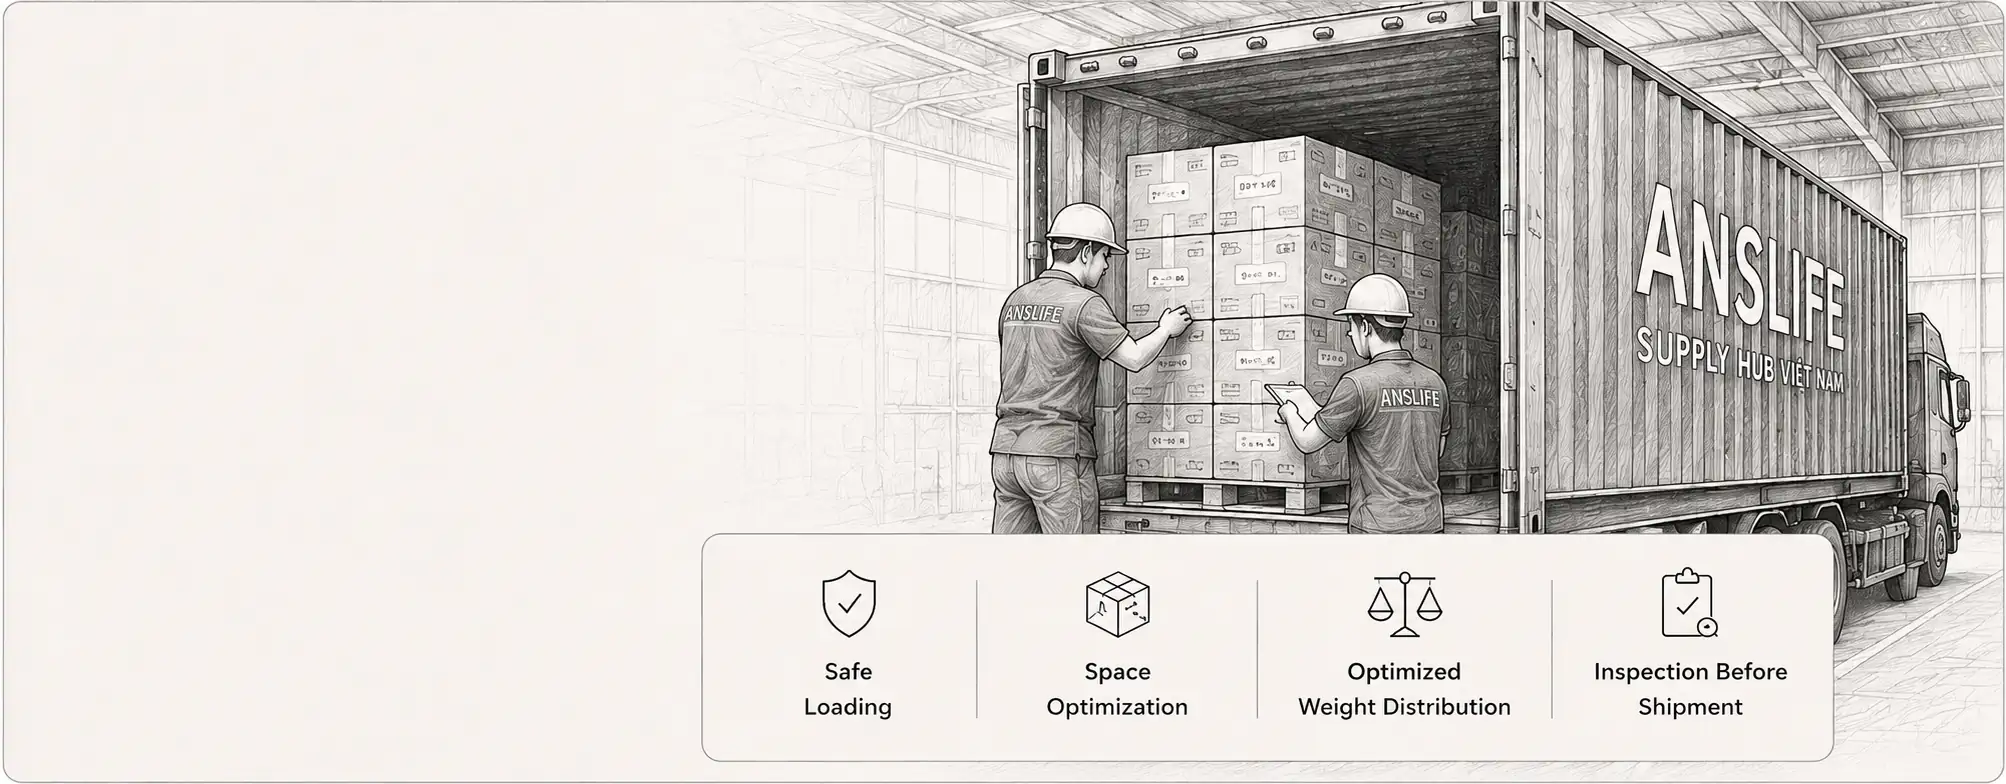
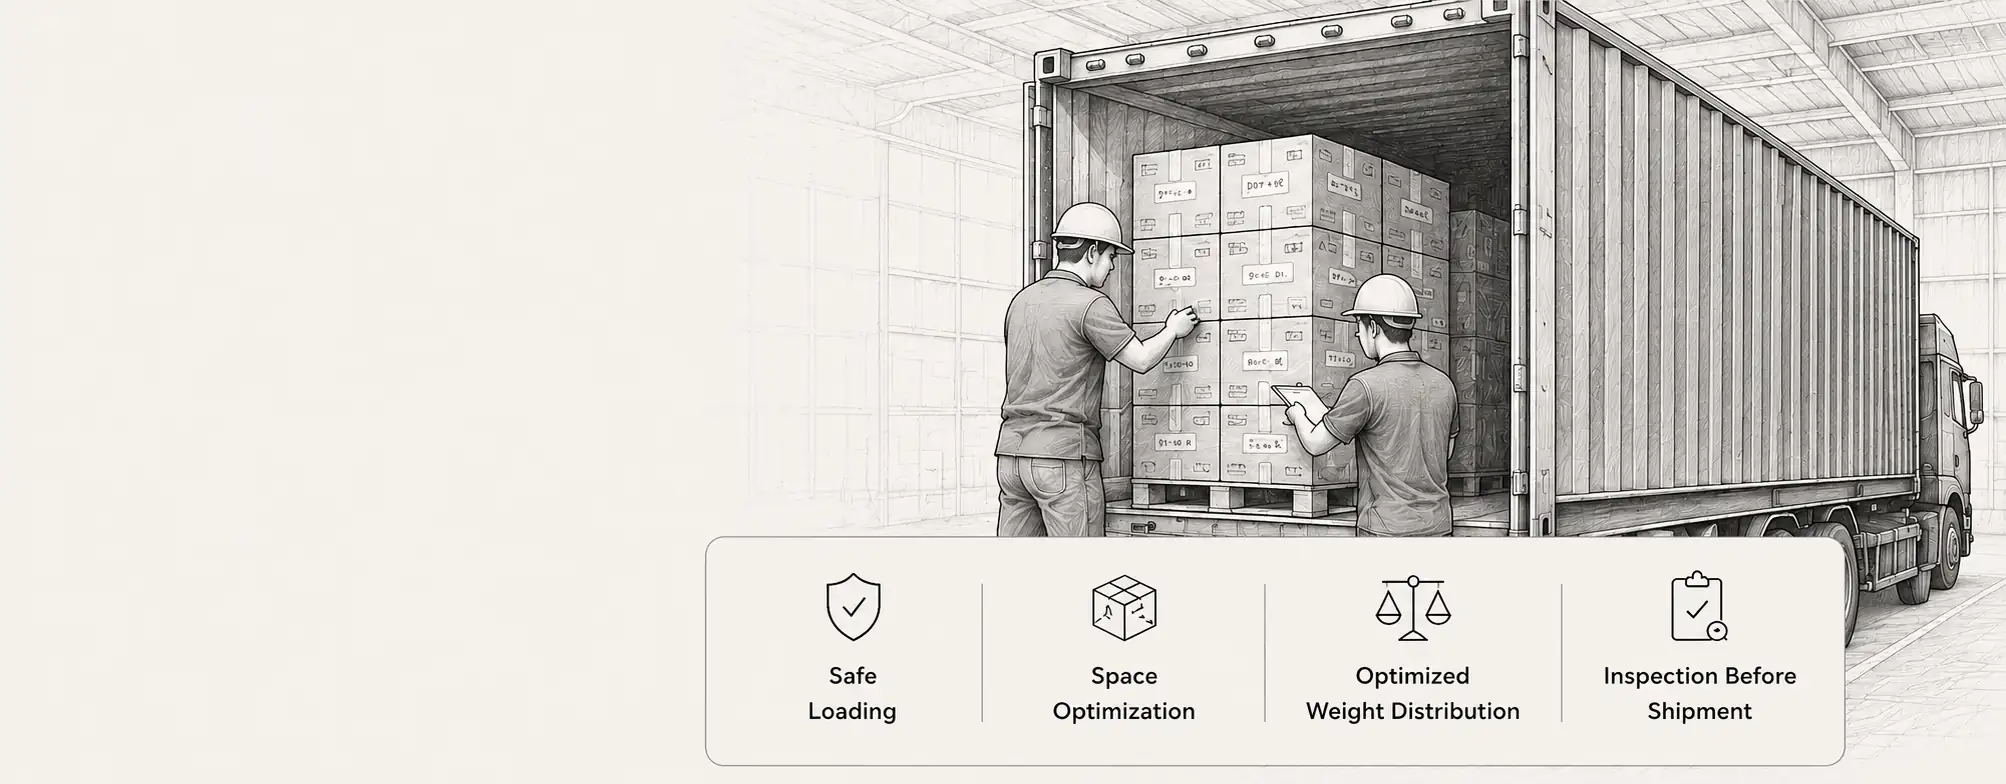
/manufacturing/container-loading

diff --git a/docs/01-project-handbook.md b/docs/01-project-handbook.md
@@ -1,0 +1,283 @@
+# 01. Project Handbook - ANSLIFE Website
+
+Cập nhật: 13/07/2026
+
+## 1. Tổng quan dự án
+
+ANSLIFE Website là hệ thống website giới thiệu năng lực sản xuất, cung ứng và xuất khẩu nội thất tại Việt Nam. Website phục vụ ba nhóm nhu cầu chính:
+
+1. Giới thiệu năng lực với buyer, đối tác và khách hàng quốc tế.
+2. Tổ chức nội dung theo các nhóm: về ANSLIFE, sản phẩm & giải pháp, nguyên liệu, sản xuất, Supply Hub Việt Nam, chất lượng & tiêu chuẩn, tài nguyên, liên hệ và tuyển dụng.
+3. Cung cấp các API nội bộ cho form liên hệ, tuyển dụng, admin và dữ liệu vận hành.
+
+Tên miền định hướng sử dụng: `anslife.com`.
+
+## 2. Phạm vi hiện tại
+
+### Website public
+
+Các nhóm trang chính:
+
+1. Trang chủ.
+2. Về ANSLIFE: triết lý, tổng quan công ty, lịch sử phát triển, phụng sự xã hội, thông tin công ty.
+3. Sản phẩm & giải pháp: nội thất hoàn thiện, cấu kiện nội thất, hoàn thiện bề mặt, giải pháp vận hành & cung ứng.
+4. Nguyên liệu: gỗ tự nhiên, gỗ kỹ thuật, vật liệu tự nhiên, vật liệu bọc nệm, vật liệu đóng gói.
+5. Sản xuất: tổng quan nhà máy, máy móc & thiết bị, năng lực hoàn thiện, dây chuyền lắp ráp, khu vực đóng gói, xếp container, quy trình sản xuất.
+6. Supply Hub Việt Nam: lưu kho, gom hàng, điều phối xuất hàng, chứng từ xuất khẩu, phòng mẫu chuẩn đối tác.
+7. Chất lượng & tiêu chuẩn: tổng quan QC, quy trình QC, kiểm tra vật liệu, kiểm tra trong sản xuất, kiểm tra cuối, mẫu duyệt, độ ẩm, đóng gói, báo cáo, tiêu chuẩn riêng của buyer.
+8. Tài nguyên: ghi chú sản xuất, kiến thức xuất khẩu, case study, cập nhật công ty, FAQ.
+9. Liên hệ: form gửi yêu cầu làm việc.
+10. Tuyển dụng: bản đồ cơ hội nghề nghiệp, danh sách vị trí, popup ứng tuyển.
+
+### Admin / vận hành nội bộ
+
+Các module admin hiện có:
+
+1. Đăng nhập, dashboard, người dùng.
+2. Khách hàng, nhà máy, đơn hàng, logistics, work logs.
+3. Data upload, data review, share link.
+4. QC portal, CAPA portal, factory surveys, supplier portal, buyer portal.
+5. Attendance, audit logs.
+6. Tuyển dụng: quản lý vị trí tuyển dụng và hồ sơ ứng tuyển.
+
+Ghi chú: website hiện không cần đăng sản phẩm bằng database như một site thương mại điện tử. Các bảng/catalog sản phẩm cũ không phải phạm vi bắt buộc của ANSLIFE Website.
+
+## 3. Stack kỹ thuật
+
+1. Frontend: Next.js, React, TypeScript.
+2. Routing UI: React Router bridge để giữ cấu trúc UI hiện tại trong Next.js.
+3. Styling: CSS tập trung tại `src/index.css`.
+4. Backend API: Next.js App Router API routes trong `src/app/api`.
+5. Database: MySQL, Prisma schema.
+6. Email: Nodemailer qua SMTP.
+7. File/object storage: Cloudflare R2 hoặc S3-compatible storage.
+
+## 4. Cấu trúc thư mục quan trọng
+
+1. `src/App.tsx`: khai báo route chính của website và admin.
+2. `src/config/site.ts`: menu, cấu hình section, route tĩnh.
+3. `src/views/`: các màn hình public/admin.
+4. `src/components/`: component dùng chung.
+5. `src/app/api/public/`: API public cho website.
+6. `src/app/api/internal/`: API nội bộ/admin.
+7. `src/lib/repositories/`: tầng đọc/ghi database.
+8. `src/lib/email/`: xử lý email thông báo.
+9. `prisma/schema.prisma`: schema database.
+10. `prisma/sql/anslife-schema.sql`: SQL schema tham chiếu.
+11. `public/`: asset tĩnh.
+12. `docs/`: tài liệu dự án và bàn giao.
+
+## 5. Cách chạy local
+
+Cài package:
+
+```bash
+npm install
+```
+
+Chạy local bằng HTTPS:
+
+```bash
+npm run dev
+```
+
+Chạy local bằng HTTP:
+
+```bash
+npm run dev:http
+```
+
+URL thường dùng:
+
+1. Website: `http://localhost:3000/vn`
+2. Admin login: `http://localhost:3000/vn/admin/login`
+3. Admin tuyển dụng: `http://localhost:3000/vn/admin/recruitment`
+4. Form liên hệ: `http://localhost:3000/vn/contact/request-quotation`
+5. API health check: `http://localhost:3000/api/health`
+
+## 6. Script quan trọng
+
+```bash
+npm run dev
+npm run dev:http
+npm run build
+npm run start
+npm run lint:src
+npm run typecheck
+npm run preflight:prod
+npm run prisma:generate
+npm run prisma:push
+npm run prisma:deploy
+npm run prisma:studio
+npm run db:seed
+```
+
+## 7. Biến môi trường
+
+Không commit secret thật lên repository. Các giá trị thật chỉ đặt trong `.env` local hoặc biến môi trường trên VPS.
+
+Nhóm website:
+
+1. `NODE_ENV`
+2. `PORT`
+3. `NEXT_PUBLIC_SITE_URL`
+4. `NEXT_PUBLIC_INTERNAL_API_BASE`
+
+Nhóm SMTP/contact:
+
+1. `SMTP_HOST`
+2. `SMTP_PORT`
+3. `SMTP_SECURE`
+4. `SMTP_USER`
+5. `SMTP_PASS`
+6. `CONTACT_NOTIFICATION_TO`
+7. `CONTACT_NOTIFICATION_FROM`
+
+Nhóm database/admin:
+
+1. `DATABASE_URL`
+2. `DB_POOL_LIMIT`
+3. `ADMIN_USERNAME`
+4. `ADMIN_PASSWORD`
+5. `ADMIN_FULL_NAME`
+6. `ADMIN_ROTATE_PASSWORD`
+7. `ADMIN_SYNC_NAME`
+8. `APP_SESSION_COOKIE_SECURE`
+
+Nhóm bảo mật/rate limit:
+
+1. `CORS_ALLOW_ORIGINS`
+2. `APP_ENABLE_CSP`
+3. `APP_RATE_LIMIT_LOGIN_MAX`
+4. `APP_RATE_LIMIT_LOGIN_WINDOW_SECONDS`
+5. `APP_RATE_LIMIT_AUDIT_MAX`
+6. `APP_RATE_LIMIT_AUDIT_WINDOW_SECONDS`
+7. `APP_RATE_LIMIT_DOWNLOAD_MAX`
+8. `APP_RATE_LIMIT_DOWNLOAD_WINDOW_SECONDS`
+9. `APP_RATE_LIMIT_EXPORT_MAX`
+10. `APP_RATE_LIMIT_EXPORT_WINDOW_SECONDS`
+11. `APP_RATE_LIMIT_SHARE_CREATE_MAX`
+12. `APP_RATE_LIMIT_SHARE_CREATE_WINDOW_SECONDS`
+13. `APP_RATE_LIMIT_SHARE_REVOKE_MAX`
+14. `APP_RATE_LIMIT_SHARE_REVOKE_WINDOW_SECONDS`
+15. `APP_RATE_LIMIT_PUBLIC_SHARE_MAX`
+16. `APP_RATE_LIMIT_PUBLIC_SHARE_WINDOW_SECONDS`
+
+Nhóm R2/storage:
+
+1. `R2_ACCOUNT_ID`
+2. `R2_ENDPOINT`
+3. `R2_ACCESS_KEY_ID`
+4. `R2_SECRET_ACCESS_KEY`
+5. `R2_BUCKET`
+6. `R2_PUBLIC_BASE_URL`
+7. `R2_REGION`
+8. `R2_MAX_FILE_SIZE_BYTES`
+
+## 8. Database
+
+Schema chính nằm ở `prisma/schema.prisma`. Các bảng quan trọng:
+
+1. `content_items`, `taxonomies`, `content_item_taxonomies`: nội dung động/fallback cho CMS.
+2. `contact_leads`: lưu yêu cầu gửi từ form liên hệ.
+3. `app_users`, `app_user_sessions`: tài khoản admin và phiên đăng nhập.
+4. `customers`, `factories`, `trade_orders`: dữ liệu vận hành.
+5. `order_logistics`, `order_work_logs`, `trade_order_assignments`: theo dõi đơn hàng và vận hành.
+6. `order_data_items`, `data_share_links`: tài liệu, upload, chia sẻ dữ liệu.
+7. `qc_items`, `capa_items`, `factory_surveys`, `supplier_material_items`: QC, CAPA, khảo sát nhà máy, dữ liệu nhà cung ứng.
+8. `attendance_logs`, `audit_logs`: chấm công và nhật ký hệ thống.
+9. `recruitment_jobs`, `recruitment_applications`: vị trí tuyển dụng và hồ sơ ứng tuyển.
+
+Lệnh đồng bộ schema nhanh:
+
+```bash
+npm run prisma:generate
+npm run prisma:push
+```
+
+Production nên dùng:
+
+```bash
+npm run prisma:deploy
+```
+
+## 9. API quan trọng
+
+Public API:
+
+1. `GET /api/health`
+2. `GET /api/public/pages?slug=...`
+3. `GET /api/public/products`
+4. `GET /api/public/projects`
+5. `GET /api/public/news`
+6. `GET /api/public/categories?taxonomy=...`
+7. `POST /api/public/contact`
+8. `GET /api/public/recruitment/jobs`
+
+Internal API:
+
+1. `POST /api/internal/auth/login`
+2. `POST /api/internal/auth/logout`
+3. `GET /api/internal/auth/me`
+4. `GET /api/internal/users`
+5. `GET/POST /api/internal/recruitment/jobs`
+6. `PATCH /api/internal/recruitment/jobs/:id`
+7. `GET /api/internal/recruitment/applications`
+8. Các API vận hành trong `/api/internal/*` cho customers, factories, orders, logistics, QC, CAPA, data và audit logs.
+
+## 10. Quy trình triển khai production
+
+1. Pull code mới lên VPS.
+2. Cài package nếu `package.json` hoặc `package-lock.json` thay đổi:
+
+```bash
+npm install
+```
+
+3. Kiểm tra `.env` production đã đủ biến cần thiết.
+4. Đồng bộ database:
+
+```bash
+npm run prisma:generate
+npm run prisma:deploy
+```
+
+5. Build:
+
+```bash
+npm run build
+```
+
+6. Restart process đang chạy website.
+7. Kiểm tra nhanh:
+
+```bash
+curl -I https://anslife.com
+curl https://anslife.com/api/health
+```
+
+## 11. Quy trình test nhanh trước khi gửi sếp
+
+1. Mở trang chủ và kiểm tra menu desktop/mobile.
+2. Kiểm tra các nhóm trang chính: `about-anslife`, `products-solutions`, `materials`, `manufacturing`, `vietnam-supply-hub`, `quality-control`, `resources`.
+3. Gửi thử form liên hệ tại `/vn/contact/request-quotation`.
+4. Đăng nhập admin và kiểm tra `/vn/admin/recruitment`.
+5. Tạo thử một vị trí tuyển dụng ở admin, kiểm tra vị trí có hiện ở `/vn/recruitment`.
+6. Gửi thử hồ sơ ứng tuyển bằng popup.
+7. Kiểm tra email thông báo có nhận được đầy đủ tên, email, quốc gia/khu vực, loại yêu cầu hoặc vị trí ứng tuyển.
+8. Chạy:
+
+```bash
+npm run typecheck
+npm run lint:src
+```
+
+## 12. Quy ước vận hành
+
+1. Không lưu mật khẩu, app password, R2 secret hoặc database password trong tài liệu bàn giao public.
+2. Khi sửa `.env` trên VPS phải restart app để biến môi trường mới có hiệu lực.
+3. Trước khi sửa database production cần backup.
+4. Trước khi xóa dữ liệu cần xác định rõ bảng và phạm vi xóa.
+5. Nội dung public ưu tiên sửa trong component/page hiện tại nếu đang là nội dung tĩnh.
+6. Với dữ liệu tuyển dụng, ưu tiên quản lý qua admin để team không cần sửa code.
+7. Khi thêm trang mới cần kiểm tra đủ desktop, mobile, đa ngôn ngữ và CTA.
